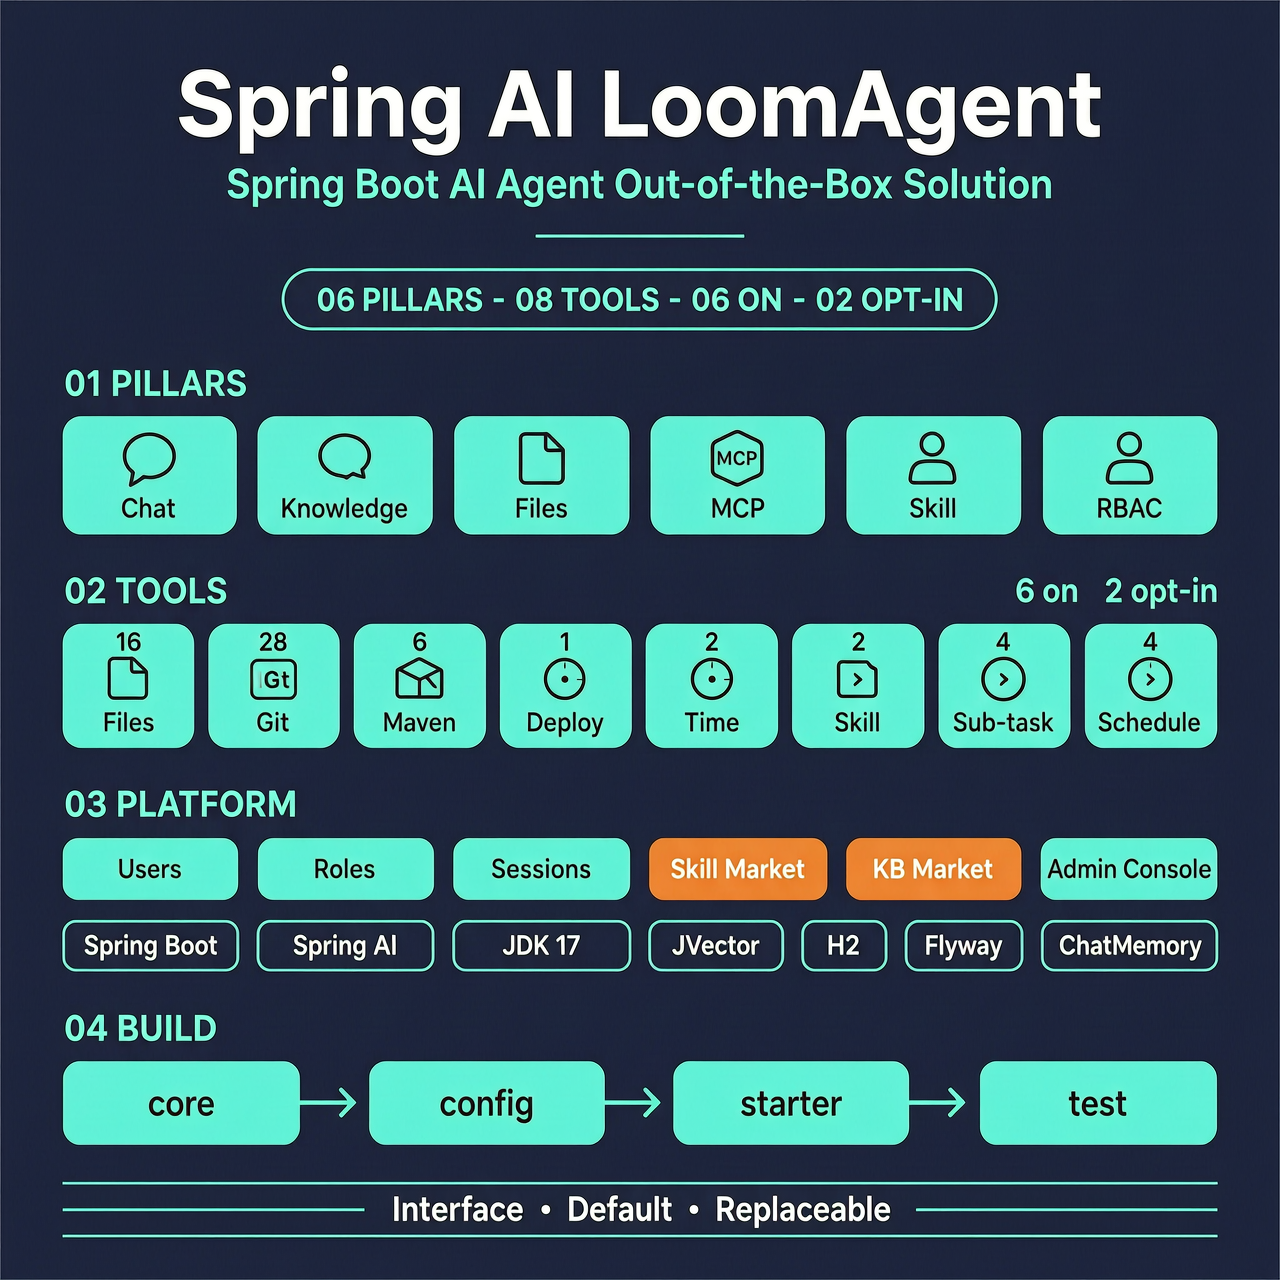
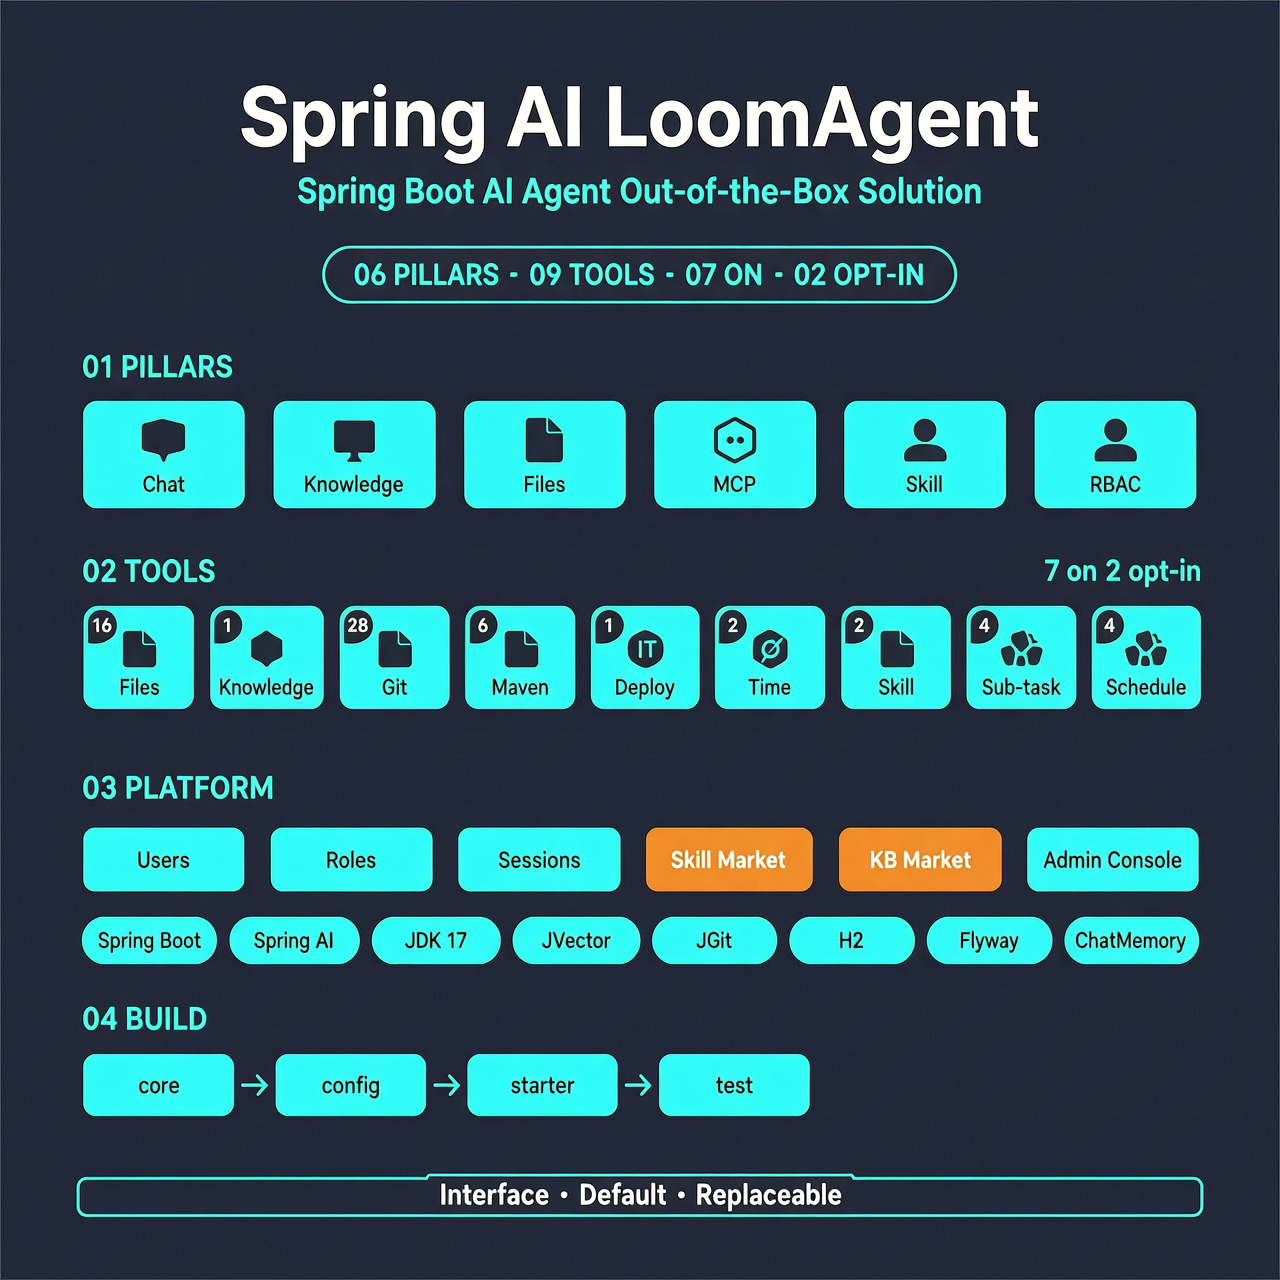
docs(image): regenerate project-overview-{en,zh}.png — 补 Knowledge 卡 + EXACTLY-N 硬约束
两张图都重生成（wan2.7-image）：

具体改动：

1. 02 TOOLS 行：补 IKnowledgeTool 卡（searchKnowledge 工具方法 count=1），
   原图遗漏，对应卡片顺序 [Files, Knowledge, Git, Maven, Deploy, Time, Skill, Sub-task, Schedule]（中英同步）
2. HERO 数字：08 TOOLS → 09 TOOLS，06 ON → 07 ON（默认 enabled 工具组 7 个：time/file/skill/knowledge/compile/subtask/schedule）
3. caption "6 on 2 opt-in" / "6 启用 2 手动" → "7 on 2 opt-in" / "7 启用 2 手动"

附带 skill layout prompt hardening：
- ZONE 3 加 EXACTLY 9 硬约束 + "漏卡即返工 + 缩宽度不省略" 表述
  （旧图 02 TOOLS 行被模型挤掉了 Time 卡）
- ZONE 4 Row B 加 EXACTLY 8 硬约束 + 同款表述
  （旧 EN 图栈行被模型漏掉了 JGit）

哪些没改：
- Skill 卡 count 仍是 2（listSkills 删除后自然同步；layout prompt 此前已写 2 故无需改）
- 栈行 8 胶囊保留所有项目（已对齐代码：Spring Boot / Spring AI / JDK 17 / JVector / JGit / H2 / Flyway / ChatMemory）
- FOOTER 措辞、PLATFORM 4 大平台 chip、6 个 PILLAR 卡、BUILD 流程框 — 全部不变

diff --git a/.claude/skills/project-overview-image/scripts/generate.py b/.claude/skills/project-overview-image/scripts/generate.py
@@ -47,17 +47,17 @@ ZONE 1: HERO (top third of the poster, centered). In this order top to bottom:
   - One very large bold white single-line title: Spring AI LoomAgent
   - One smaller cyan tagline directly below: Spring Boot AI Agent Out-of-the-Box Solution
   - A clear empty gap
-  - At the center, a thin horizontal outline pill (a rounded rectangle with a hairline cyan border, no fill) containing on a single line, in small uppercase: 06 PILLARS  -  08 TOOLS  -  06 ON  -  02 OPT-IN
+  - At the center, a thin horizontal outline pill (a rounded rectangle with a hairline cyan border, no fill) containing on a single line, in small uppercase: 06 PILLARS  -  09 TOOLS  -  07 ON  -  02 OPT-IN
 
 ZONE 2: small uppercase section label on the left in cyan: 01 PILLARS. Below it one horizontal row of six plain rounded rectangle cards, all cyan, all the same size, in this exact order from left to right: Chat, Knowledge, Files, MCP, Skill, RBAC.
 
-ZONE 3: small uppercase section label on the left in cyan: 02 TOOLS. To the right of that label on the same horizontal line, a small caption reading: 6 on  2 opt-in. Below the label, one horizontal row of eight plain rounded rectangle cards, all cyan, all the same size, in this exact order from left to right. Every card is equal to every other card (no card is highlighted, no card is a different color, no card has a star):
-  Files, Git, Maven, Deploy, Time, Skill, Sub-task, Schedule
-  For each of these eight cards, put a small badge with the tool count (just the digit) inside the icon area at the top: 16, 28, 6, 1, 2, 2, 4, 4. The card label sits at the bottom edge.
+ZONE 3: small uppercase section label on the left in cyan: 02 TOOLS. To the right of that label on the same horizontal line, a small caption reading: 7 on  2 opt-in. Below the label, ONE horizontal row containing EXACTLY 9 plain rounded rectangle cards — no more, no fewer, all nine visible in the order listed — in this exact order from left to right. Every card is equal to every other card (no card is highlighted, no card is a different color, no card has a star):
+  Files, Knowledge, Git, Maven, Deploy, Time, Skill, Sub-task, Schedule
+  For each of these nine cards, put a small badge with the tool count (just the digit) inside the icon area at the top: 16, 1, 28, 6, 1, 2, 2, 4, 4. The card label sits at the bottom edge. The single most common rendering error is dropping one card (often Time) to fit the row; render all nine even if each card becomes narrower, prefer smaller width over omission, never omit a card or merge two cards into one.
 
 ZONE 4: small uppercase section label on the left in cyan: 03 PLATFORM. Below it, two stacked rows:
   Row A: one horizontal row of six small chip rectangles on the left in this order: Users, Roles, Sessions, Skill Market, KB Market, Admin Console. The **Skill Market** and **KB Market** pills are the ONLY orange-filled elements on the whole poster, sitting side by side to form a visual "Market block". All other chips are cyan-filled.
-  Row B: one horizontal row of thin cyan pill labels in this exact order: Spring Boot, Spring AI, JDK 17, JVector, JGit, H2, Flyway, ChatMemory. JVector is one seven-letter word starting with capital J, then capital V, then lower-case e c t o r.
+  Row B: ONE horizontal row containing EXACTLY 8 thin cyan pill labels — no more, no fewer, all eight visible — in this exact order: Spring Boot, Spring AI, JDK 17, JVector, JGit, H2, Flyway, ChatMemory. JVector is one seven-letter word starting with capital J, then capital V, then lower-case e c t o r. The single most common rendering error is dropping one of these labels; render all eight even if the row becomes tighter, prefer smaller padding over omission.
 
 ZONE 5: small uppercase section label on the left in cyan: 04 BUILD. Below it, one horizontal row of four plain rounded rectangle boxes connected by right-pointing arrows, in this order: core, config, starter, test.
 
@@ -78,17 +78,17 @@ ZH_LAYOUT = """\
   - 一行超大白色粗体标题：Spring AI LoomAgent
   - 紧接下方一行较小的青色副标题：Spring Boot AI Agent 开箱即用方案
   - 一段空白
-  - 居中位置一个细轮廓横向胶囊（圆角矩形，只有青色描边，没有填充），里面单行小号大写英文：06 PILLARS  -  08 TOOLS  -  06 ON  -  02 OPT-IN
+  - 居中位置一个细轮廓横向胶囊（圆角矩形，只有青色描边，没有填充），里面单行小号大写英文：06 PILLARS  -  09 TOOLS  -  07 ON  -  02 OPT-IN
 
 02 区：左侧一行青色小号大写章节标签：01 核心。其下方一行六张圆角矩形卡片，全部青色等大，从左到右依次为：对话、知识库、文件、MCP、技能、权限。
 
-03 区：左侧一行青色小号大写章节标签：02 工具。在章节标签右侧同一行小号说明文字：6 启用  2 手动。下方一行八张圆角矩形卡片，全部青色等大，从左到右依次为。每张卡片完全相同（没有高亮、没有其他颜色、没有五角星）：
-  文件、Git、Maven、部署、时间、技能、子任务、定时
-  每张卡片在图标区顶端放一个小数字徽章：16、28、6、1、2、2、4、4。卡片标签贴在底部。
+03 区：左侧一行青色小号大写章节标签：02 工具。在章节标签右侧同一行小号说明文字：7 启用  2 手动。下方 EXACTLY 9 张圆角矩形卡片组成一行 — 不能多也不能少，9 张全部可见 — 全部青色等大，从左到右依次为。每张卡片完全相同（没有高亮、没有其他颜色、没有五角星）：
+  文件、知识库、Git、Maven、部署、时间、技能、子任务、定时
+  每张卡片在图标区顶端放一个小数字徽章：16、1、28、6、1、2、2、4、4。卡片标签贴在底部。最常见的渲染错误是漏掉一张卡（经常是"时间"）；即使每张更窄也要全部画出来，绝对不能省略一张或两张并一张。
 
 04 区：左侧一行青色小号大写章节标签：03 平台。其下方两行堆叠：
   第 A 行：一行六个小芯片矩形，依次为：用户、角色、会话、技能市场、知识市场、管理控制台。**技能市场**和**知识市场**是全海报 EXACTLY 唯一的两个橙色填充芯片，并排相邻形成"市场板块"。其他芯片都是青色填充。
-  第 B 行：一行细青色胶囊标签，依次为：Spring Boot、Spring AI、JDK 17、JVector、JGit、H2、Flyway、ChatMemory。JVector 是一个单词：以大写 J 和大写 V 开头，后接小写 e、c、t、o、r。
+  第 B 行：一行 EXACTLY 8 个细青色胶囊标签（不能多也不能少，8 个全部可见），依次为：Spring Boot、Spring AI、JDK 17、JVector、JGit、H2、Flyway、ChatMemory。JVector 是一个单词：以大写 J 和大写 V 开头，后接小写 e、c、t、o、r。最常见的渲染错误是漏掉一个；如果空间紧张就缩小 padding 而不是省略。
 
 05 区：左侧一行青色小号大写章节标签：04 构建。其下方一行四个圆角矩形方框，用向右箭头连接，从左到右：核心、配置、启动、测试。
 
